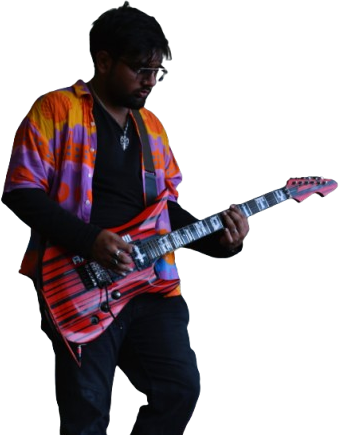
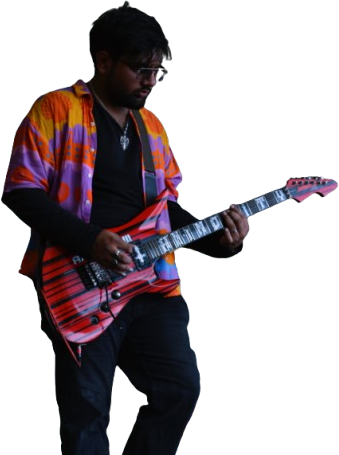
Fix Harsh's framing, reorder the drummer ahead of Partho
Harsh was rendering at 1.18 when he belonged at 1.0, and I had the cause
backwards. The head-width band was sized as a fraction of image HEIGHT, so
cropping his legs off shrank the band, which shrank his measured head, which
made me scale him up to compensate — twice. Sizing the band from image WIDTH
instead makes it invariant to a vertical crop, and then matching his framing to
Riyan and Shubhra is a single step: crop to headW / target, which puts him at
78% of his body — hips and the top of his legs visible, exactly like theirs —
and drops his scale to a plain 1.0.

Order: Mathias, Yuvraaj, Partho, Aditya. Mathias now overlaps the drummer, and
Partho stands to Yuvraaj's right so his bass points out into open space rather
than across anyone's face. That retires the workaround entirely — Yuvraaj no
longer needs a nudge to dodge the headstock, and the headstock is fully visible.

Spacing: AIR 1.06 -> 0.98 and the guitarists' gaps removed, so the only
deliberate space in the row is between the two singers. Aditya keeps one too,
but for a different reason — Partho's headstock landed on his eyes once he
moved. His own bass fills that space, so the row still scans continuous with no
bare-backdrop columns.

All eight faces clear, heads centred on their plates, labels at 4px, nothing
clipped 1024-1920.

diff --git a/src/data/band.ts b/src/data/band.ts
@@ -190,7 +190,7 @@ export const MEMBERS: Member[] = [
     accent: "#E11D2E",
     photo: "/photos/harsh-roy.jpg",
     cutout: "/cutouts/harsh-roy.png",
-    lineup: { scale: 1.18, drop: 0.18, aspect: 0.7793, bodyW: 0.4395, headCx: 0.3703, nudge: 0.06, gapBefore: 0.05 },
+    lineup: { scale: 1.0, drop: 0.0, aspect: 0.7451, bodyW: 0.4336, headCx: 0.373, nudge: 0.06 },
     gallery: [
       "/photos/gallery/harsh-roy/01.jpg",
       "/photos/gallery/harsh-roy/02.jpg",
@@ -273,7 +273,7 @@ export const MEMBERS: Member[] = [
     accent: "#E11D2E",
     photo: "/photos/mathias-oundo.jpg",
     cutout: "/cutouts/mathias-oundo.png",
-    lineup: { scale: 0.99, drop: -0.01, aspect: 0.6629, bodyW: 0.62, headCx: 0.512 },
+    lineup: { scale: 0.99, drop: -0.01, aspect: 0.6629, bodyW: 0.62, headCx: 0.512, gapBefore: 0.07 },
     gallery: [
       "/photos/gallery/mathias-oundo/01.jpg",
       "/photos/gallery/mathias-oundo/02.jpg",
@@ -389,7 +389,7 @@ export const MEMBERS: Member[] = [
     accent: "#F59E0B",
     photo: "/photos/shubhra-ghosh.jpg",
     cutout: "/cutouts/shubhra-ghosh.png",
-    lineup: { scale: 1.02, drop: 0.02, aspect: 0.447, bodyW: 0.747, headCx: 0.271, gapBefore: 0.05 },
+    lineup: { scale: 1.02, drop: 0.02, aspect: 0.447, bodyW: 0.747, headCx: 0.271 },
     gallery: [
       "/photos/gallery/shubhra-ghosh/01.jpg",
       "/photos/gallery/shubhra-ghosh/02.jpg",
@@ -426,7 +426,7 @@ export const MEMBERS: Member[] = [
     accent: "#3B82F6",
     photo: "/photos/yuvraaj-rawat.jpg",
     cutout: "/cutouts/yuvraaj-rawat.png",
-    lineup: { scale: 1.16, drop: 0.16, aspect: 0.4955, bodyW: 0.8144, headCx: 0.4185, nudge: 0.13, fadeFrom: 46 },
+    lineup: { scale: 1.16, drop: 0.16, aspect: 0.4955, bodyW: 0.8144, headCx: 0.4185, fadeFrom: 46 },
     gallery: [
       "/photos/gallery/yuvraaj-rawat/01.jpg",
       "/photos/gallery/yuvraaj-rawat/02.jpg",
@@ -470,7 +470,7 @@ export const MEMBERS: Member[] = [
     accent: "#8B5CF6",
     photo: "/photos/aditya-singh.jpg",
     cutout: "/cutouts/aditya-singh.png",
-    lineup: { scale: 0.8, drop: -0.2, aspect: 0.7689, bodyW: 0.603, headCx: 0.356 },
+    lineup: { scale: 0.8, drop: -0.2, aspect: 0.7689, bodyW: 0.603, headCx: 0.356, gapBefore: 0.1 },
     gallery: [],
     tagline:
       "The youngest in the room, writing bass parts nobody asked for and everybody kept.",
@@ -509,8 +509,8 @@ export const LINEUP_ORDER = [
   "harsh-roy",
   "arnold-singh",
   "mathias-oundo",
-  "partho-roy",
   "yuvraaj-rawat",
+  "partho-roy",
   "aditya-singh",
 ] as const;
 

diff --git a/src/components/HeroLineup.tsx b/src/components/HeroLineup.tsx
@@ -11,7 +11,7 @@ const EASE = [0.16, 1, 0.3, 1] as const;
 
 /** Body-to-body pitch as a multiple of body width. Below 1 the bodies overlap,
  *  which is what a band standing shoulder to shoulder actually looks like. */
-const AIR = 1.06;
+const AIR = 0.98;
 
 /**
  * A member's slot is only as wide as their BODY — their guitar hangs outside it

diff --git a/README.md b/README.md
@@ -146,9 +146,16 @@ lineup: { scale: 1.02, drop: 0.02, aspect: 0.3766, bodyW: 0.835, headCx: 0.745 }
 | `bodyW` | width of the person — torso plus instrument body, *excluding* the neck and headstock — as a fraction of the PNG width. Sets how much floor they occupy. |
 | `headCx` | where their head sits across the PNG, 0–1. The figure is positioned so this lands on the slot's centre, i.e. directly over their name. |
 | `nudge` | optional manual offset in `--fig` units, applied after centring. Positive moves right. Arnold leans with his knee out to the left, so head-centring left his mass sitting left of his name. |
-| `gapBefore` | optional extra space before this member, in `--fig` units. Used to give the three guitarists a little air without loosening the whole row — `AIR` would space everyone. |
+| `gapBefore` | optional extra space before this member, in `--fig` units, for when one pair needs air but the row doesn't. Mathias has one so the two singers aren't shoulder to shoulder; Aditya has one so Partho's headstock clears his face. |
 | `layer` | optional stacking override. Members default to drawing left-over-right at `(count − index) × 10`. Raise it to lift someone above a neighbour. Currently unused — the drummer's face is cleared by moving him rather than restacking, so Partho's headstock stays visible. |
 | `fadeFrom` | where the bottom fade starts, as a percentage of the figure. Default `80`. Lower it to dissolve something the cut-out ends abruptly on — Yuvraaj's drum kit is cut mid-shell in the source, so his is `46`. |
+
+**Measure the head-width band from image WIDTH, never from image height.** A band sized
+as a fraction of height shrinks when you crop the legs off, which shrinks the measured
+head, which makes you scale the person *up* — Harsh was pushed to 1.3 that way when he
+belonged at 1.0. Width is untouched by a vertical crop, so a width-derived band gives
+the same answer at any framing. With that fixed, matching someone's framing to the rest
+is one step: crop them to `headW / target(headW/H)` tall.
 
 **Measure head WIDTH, not head height.** Head height was tried and produced two
 visibly wrong passes. It's inflated by hair (Riyan's covers his face entirely) and by
